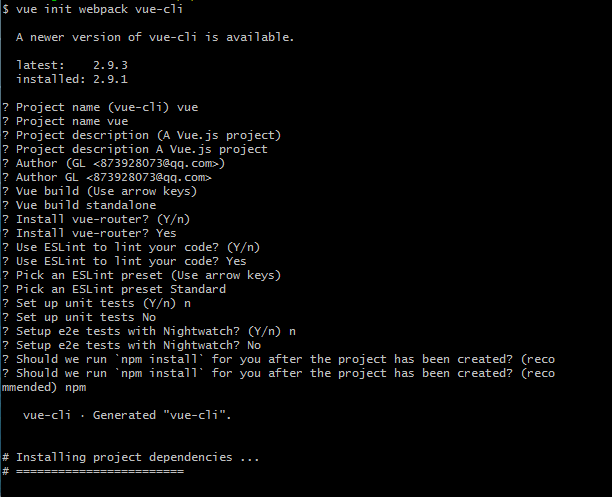
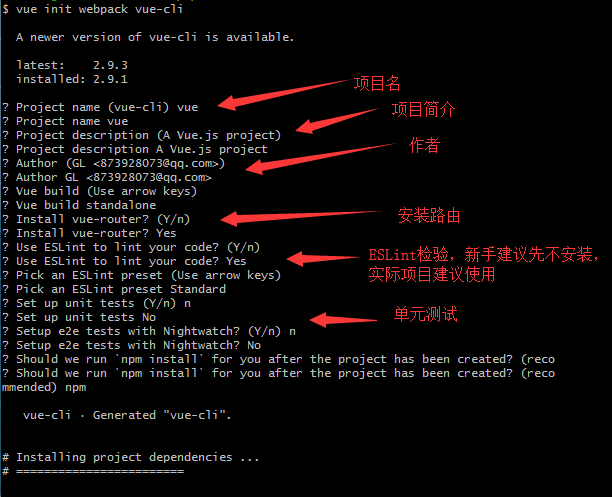
Site updated: 2018-05-17 14:58:52

diff --git a/2018/05/15/vue-cli构建项目/index.html b/2018/05/15/vue-cli构建项目/index.html
@@ -17,7 +17,7 @@
 <meta property="og:description" content="简单记录一下vue-cli构建项目，真的简单记录。 安装1234567# 全局安装 vue-cli$ npm install --global vue-cli# 创建一个基于 webpack 模板的新项目$ vue init webpack my-project# 安装依赖，走你$ cd my-project$ npm run dev">
 <meta property="og:locale" content="default">
 <meta property="og:image" content="https://note.youdao.com/yws/public/resource/7f17893a71ff4c65a2eeb1b02d8e9e39/xmlnote/WEBRESOURCE525db9b82a81be11842301ac0a8bf683/576">
-<meta property="og:updated_time" content="2018-05-17T02:31:32.074Z">
+<meta property="og:updated_time" content="2018-05-17T06:49:08.039Z">
 <meta name="twitter:card" content="summary">
 <meta name="twitter:title" content="vue-cli构建项目">
 <meta name="twitter:description" content="简单记录一下vue-cli构建项目，真的简单记录。 安装1234567# 全局安装 vue-cli$ npm install --global vue-cli# 创建一个基于 webpack 模板的新项目$ vue init webpack my-project# 安装依赖，走你$ cd my-project$ npm run dev">
@@ -174,8 +174,13 @@
         <p>简单记录一下vue-cli构建项目，真的简单记录。</p>
 <h2 id="安装"><a href="#安装" class="headerlink" title="安装"></a>安装</h2><figure class="highlight plain"><table><tr><td class="gutter"><pre><span class="line">1</span><br><span class="line">2</span><br><span class="line">3</span><br><span class="line">4</span><br><span class="line">5</span><br><span class="line">6</span><br><span class="line">7</span><br></pre></td><td class="code"><pre><span class="line"># 全局安装 vue-cli</span><br><span class="line">$ npm install --global vue-cli</span><br><span class="line"># 创建一个基于 webpack 模板的新项目</span><br><span class="line">$ vue init webpack my-project</span><br><span class="line"># 安装依赖，走你</span><br><span class="line">$ cd my-project</span><br><span class="line">$ npm run dev</span><br></pre></td></tr></table></figure>
 <a id="more"></a>
-<h3 id="初始化选项如下-最后按回车use-NPM就可以啦"><a href="#初始化选项如下-最后按回车use-NPM就可以啦" class="headerlink" title="初始化选项如下,最后按回车use NPM就可以啦"></a>初始化选项如下,最后按回车use NPM就可以啦</h3><figure class="highlight plain"><table><tr><td class="gutter"><pre><span class="line">1</span><br><span class="line">2</span><br><span class="line">3</span><br><span class="line">4</span><br><span class="line">5</span><br><span class="line">6</span><br><span class="line">7</span><br><span class="line">8</span><br><span class="line">9</span><br><span class="line">10</span><br><span class="line">11</span><br><span class="line">12</span><br><span class="line">13</span><br><span class="line">14</span><br><span class="line">15</span><br><span class="line">16</span><br><span class="line">17</span><br><span class="line">18</span><br><span class="line">19</span><br><span class="line">20</span><br><span class="line">21</span><br><span class="line">22</span><br><span class="line">23</span><br><span class="line">24</span><br><span class="line">25</span><br><span class="line">26</span><br><span class="line">27</span><br><span class="line">28</span><br><span class="line">29</span><br><span class="line">30</span><br></pre></td><td class="code"><pre><span class="line">$ vue init webpack vue-project</span><br><span class="line"></span><br><span class="line">  A newer version of vue-cli is available.</span><br><span class="line"></span><br><span class="line">  latest:    2.9.3</span><br><span class="line">  installed: 2.9.1</span><br><span class="line"></span><br><span class="line">? Project name (vue-project)</span><br><span class="line">? Project name vue-project</span><br><span class="line">? Project description (A Vue.js project)</span><br><span class="line">? Project description A Vue.js project</span><br><span class="line">? Author (GL &lt;873928073@qq.com&gt;)</span><br><span class="line">? Author GL &lt;873928073@qq.com&gt;</span><br><span class="line">? Vue build (Use arrow keys)</span><br><span class="line">? Vue build standalone</span><br><span class="line">? Install vue-router? (Y/n)</span><br><span class="line">? Install vue-router? Yes</span><br><span class="line">? Use ESLint to lint your code? (Y/n)</span><br><span class="line">? Use ESLint to lint your code? Yes</span><br><span class="line">? Pick an ESLint preset (Use arrow keys)</span><br><span class="line">? Pick an ESLint preset Standard</span><br><span class="line">? Set up unit tests (Y/n) n</span><br><span class="line">? Set up unit tests No</span><br><span class="line">? Setup e2e tests with Nightwatch? (Y/n) n</span><br><span class="line">? Setup e2e tests with Nightwatch? No</span><br><span class="line">? Should we run `npm install` for you after the project has been created? (reco</span><br><span class="line">mmended) (Use arrow keys)</span><br><span class="line">&gt; Yes, use NPM</span><br><span class="line">  Yes, use Yarn</span><br><span class="line">  No, I will handle that myself</span><br></pre></td></tr></table></figure>
+<h3 id="初始化选项如下-最后按回车use-NPM就可以啦"><a href="#初始化选项如下-最后按回车use-NPM就可以啦" class="headerlink" title="初始化选项如下,最后按回车use NPM就可以啦"></a>初始化选项如下,最后按回车use NPM就可以啦</h3><figure class="highlight plain"><table><tr><td class="gutter"><pre><span class="line">1</span><br><span class="line">2</span><br><span class="line">3</span><br><span class="line">4</span><br><span class="line">5</span><br><span class="line">6</span><br><span class="line">7</span><br><span class="line">8</span><br><span class="line">9</span><br><span class="line">10</span><br><span class="line">11</span><br><span class="line">12</span><br><span class="line">13</span><br><span class="line">14</span><br><span class="line">15</span><br><span class="line">16</span><br><span class="line">17</span><br><span class="line">18</span><br><span class="line">19</span><br><span class="line">20</span><br><span class="line">21</span><br><span class="line">22</span><br><span class="line">23</span><br><span class="line">24</span><br><span class="line">25</span><br><span class="line">26</span><br><span class="line">27</span><br><span class="line">28</span><br><span class="line">29</span><br><span class="line">30</span><br></pre></td><td class="code"><pre><span class="line">$ vue init webpack vue-project</span><br><span class="line"></span><br><span class="line">  A newer version of vue-cli is available.</span><br><span class="line"></span><br><span class="line">  latest:    2.9.3</span><br><span class="line">  installed: 2.9.1</span><br><span class="line"></span><br><span class="line">? Project name (vue-project)  // 项目名称</span><br><span class="line">? Project name vue-project</span><br><span class="line">? Project description (A Vue.js project)  // 项目描述</span><br><span class="line">? Project description A Vue.js project</span><br><span class="line">? Author (GL &lt;873928073@qq.com&gt;)  // 作者</span><br><span class="line">? Author GL &lt;873928073@qq.com&gt;</span><br><span class="line">? Vue build (Use arrow keys)  // 是否安装编译器</span><br><span class="line">? Vue build standalone</span><br><span class="line">? Install vue-router? (Y/n) // 是否安装 vue-router（路由）</span><br><span class="line">? Install vue-router? Yes</span><br><span class="line">? Use ESLint to lint your code? (Y/n) // 是否需要使用 ESLint 来检查你的代码</span><br><span class="line">? Use ESLint to lint your code? Yes</span><br><span class="line">? Pick an ESLint preset (Use arrow keys)</span><br><span class="line">? Pick an ESLint preset Standard</span><br><span class="line">? Set up unit tests (Y/n) n // 是否需要安装测试功能。</span><br><span class="line">? Set up unit tests No</span><br><span class="line">? Setup e2e tests with Nightwatch? (Y/n) n</span><br><span class="line">? Setup e2e tests with Nightwatch? No</span><br><span class="line">? Should we run `npm install` for you after the project has been created? (reco</span><br><span class="line">mmended) (Use arrow keys)</span><br><span class="line">&gt; Yes, use NPM</span><br><span class="line">  Yes, use Yarn</span><br><span class="line">  No, I will handle that myself</span><br></pre></td></tr></table></figure>
 <p><img src="https://note.youdao.com/yws/public/resource/7f17893a71ff4c65a2eeb1b02d8e9e39/xmlnote/WEBRESOURCE525db9b82a81be11842301ac0a8bf683/576" alt="vue-cli"></p>
+<h3 id="初始完后执行-npm-run-dev-命令，在浏览器里面打开页面显示如下，这样项目就创建完成了。"><a href="#初始完后执行-npm-run-dev-命令，在浏览器里面打开页面显示如下，这样项目就创建完成了。" class="headerlink" title="初始完后执行 npm run dev 命令，在浏览器里面打开页面显示如下，这样项目就创建完成了。"></a>初始完后执行 npm run dev 命令，在浏览器里面打开页面显示如下，这样项目就创建完成了。</h3><p>vue.png</p>
+<h3 id="初始文件解析"><a href="#初始文件解析" class="headerlink" title="初始文件解析"></a>初始文件解析</h3><figure class="highlight plain"><table><tr><td class="gutter"><pre><span class="line">1</span><br><span class="line">2</span><br><span class="line">3</span><br><span class="line">4</span><br><span class="line">5</span><br><span class="line">6</span><br><span class="line">7</span><br><span class="line">8</span><br><span class="line">9</span><br><span class="line">10</span><br><span class="line">11</span><br><span class="line">12</span><br><span class="line">13</span><br><span class="line">14</span><br><span class="line">15</span><br><span class="line">16</span><br><span class="line">17</span><br><span class="line">18</span><br><span class="line">19</span><br><span class="line">20</span><br><span class="line">21</span><br><span class="line">22</span><br><span class="line">23</span><br><span class="line">24</span><br><span class="line">25</span><br><span class="line">26</span><br><span class="line">27</span><br><span class="line">28</span><br><span class="line">29</span><br><span class="line">30</span><br><span class="line">31</span><br><span class="line">32</span><br><span class="line">33</span><br></pre></td><td class="code"><pre><span class="line">├── build                           // 编译配置文件</span><br><span class="line">│   ├── build.js</span><br><span class="line">│   ├── check-versions.js</span><br><span class="line">│   ├── utils.js</span><br><span class="line">│   ├── vue-loader.conf.js</span><br><span class="line">│   ├── webpack.base.conf.js</span><br><span class="line">│   ├── webpack.dev.conf.js</span><br><span class="line">│   └── webpack.prod.conf.js</span><br><span class="line">├── config                          // 项目基本设置文件夹</span><br><span class="line">│   ├── dev.env.js                  // 开发配置文件</span><br><span class="line">│   ├── index.js                    // 配置主文件</span><br><span class="line">│   └── prod.env.js                 // 编译配置文件</span><br><span class="line">├── node_modules                    // 项目依赖包文件夹</span><br><span class="line">├── src                             // 我们的项目的源码编写文件</span><br><span class="line">│   ├── assets                      // 初始项目资源目录</span><br><span class="line">│   │   └── logo.png</span><br><span class="line">│   ├── components                  // 组件目录</span><br><span class="line">│   │   └── HelloWorld.vue          // 测试组件</span><br><span class="line">│   ├── router                      // 路由配置文件夹</span><br><span class="line">│   │   └── index.js                // 路由配置文件</span><br><span class="line">│   ├── App.vue                     // APP入口文件</span><br><span class="line">│   └── main.js                     // 主配置文件</span><br><span class="line">├── static                          // 资源放置目录</span><br><span class="line">├── .babelrc</span><br><span class="line">├── .editorconfig</span><br><span class="line">├── .eslintignore</span><br><span class="line">├── .eslintrc.js                    // ESLint配置文件</span><br><span class="line">├── .gitignore</span><br><span class="line">├── .postcssrc.js</span><br><span class="line">├── index.html                      // 项目入口文件</span><br><span class="line">├── package.json                    // 项目依赖包配置文件</span><br><span class="line">├── package-lock.json               // npm5 新增文件，优化性能</span><br><span class="line">└── README.md                       // 项目说明文档</span><br></pre></td></tr></table></figure>
+<p><img src="" alt="directory.png"></p>
+<h3 id="根据自己需求重配src目录"><a href="#根据自己需求重配src目录" class="headerlink" title="根据自己需求重配src目录"></a>根据自己需求重配src目录</h3><figure class="highlight plain"><table><tr><td class="gutter"><pre><span class="line">1</span><br><span class="line">2</span><br><span class="line">3</span><br><span class="line">4</span><br><span class="line">5</span><br><span class="line">6</span><br><span class="line">7</span><br><span class="line">8</span><br><span class="line">9</span><br><span class="line">10</span><br><span class="line">11</span><br><span class="line">12</span><br><span class="line">13</span><br><span class="line">14</span><br><span class="line">15</span><br><span class="line">16</span><br><span class="line">17</span><br><span class="line">18</span><br><span class="line">19</span><br><span class="line">20</span><br><span class="line">21</span><br><span class="line">22</span><br><span class="line">23</span><br><span class="line">24</span><br><span class="line">25</span><br><span class="line">26</span><br></pre></td><td class="code"><pre><span class="line">├── api                             // 接口调用工具文件夹</span><br><span class="line">│   └── index.js                    // 接口调用工具</span><br><span class="line">├── components                      // 组件文件夹，目前为空</span><br><span class="line">├── config                          // 项目配置文件夹</span><br><span class="line">│   └── index.js                    // 项目配置文件</span><br><span class="line">├── css                             // css 样式存放目录</span><br><span class="line">│   ├── base                        // 基础样式存放目录</span><br><span class="line">│   │   ├── _base.scss              // 基础样式文件</span><br><span class="line">│   │   ├── _reset.scss             // 浏览器初始化文件</span><br><span class="line">│   │   ├── _mixin.scss             // scss 混入文件</span><br><span class="line">│   │   └── _variables.scss         // 公共变量文件</span><br><span class="line">│   ├── layouts                     // 页面样式文件夹</span><br><span class="line">│   │   ├── _footer.scss</span><br><span class="line">│   │   └── _header.scss</span><br><span class="line">│   └── common.scss                 // 主样式文件</span><br><span class="line">├── img                             // 图片</span><br><span class="line">├── page                            // 我们的页面组件文件夹</span><br><span class="line">├── router                          // 路由配置文件夹</span><br><span class="line">│   └── index.js                    // 路由配置文件</span><br><span class="line">├── store                           // vuex</span><br><span class="line">│   ├── modules                     // vuex项目模块文件夹</span><br><span class="line">│   └── index.js                    // vuex主文件</span><br><span class="line">├── utils                           // 常用工具文件夹</span><br><span class="line">│   └── index.js                    // 常用工具文件</span><br><span class="line">├── App.vue                         // APP入口文件</span><br><span class="line">└── main.js                         // 主配置文件</span><br></pre></td></tr></table></figure>
+<h3 id="配置-static"><a href="#配置-static" class="headerlink" title="配置 static"></a>配置 static</h3><p>文件如果是放在 src 目录里面，则每次打包的时候，都需要打包的。这回增加我们的打包项目的时间长度。而且，一些地方放的文件，我们一般是不会去修改的，也没必要 npm 安装，直接引用就好了。可以根据自己的情况，对这些可以不进行打包而直接引用的文件提炼出来，放在资源目录里面直接调用，这样会大大的提高我们的项目的打包效率。<br><figure class="highlight plain"><table><tr><td class="gutter"><pre><span class="line">1</span><br><span class="line">2</span><br><span class="line">3</span><br><span class="line">4</span><br></pre></td><td class="code"><pre><span class="line">├── css             // 放一些第三方的样式文件</span><br><span class="line">├── font            // 放字体图标文件</span><br><span class="line">├── image           // 放图片文件，如果是复杂项目，可以在这里面再分门别类</span><br><span class="line">└── js              // 放一些第三方的JS文件，如 jquery</span><br></pre></td></tr></table></figure></p>
 
       
 
